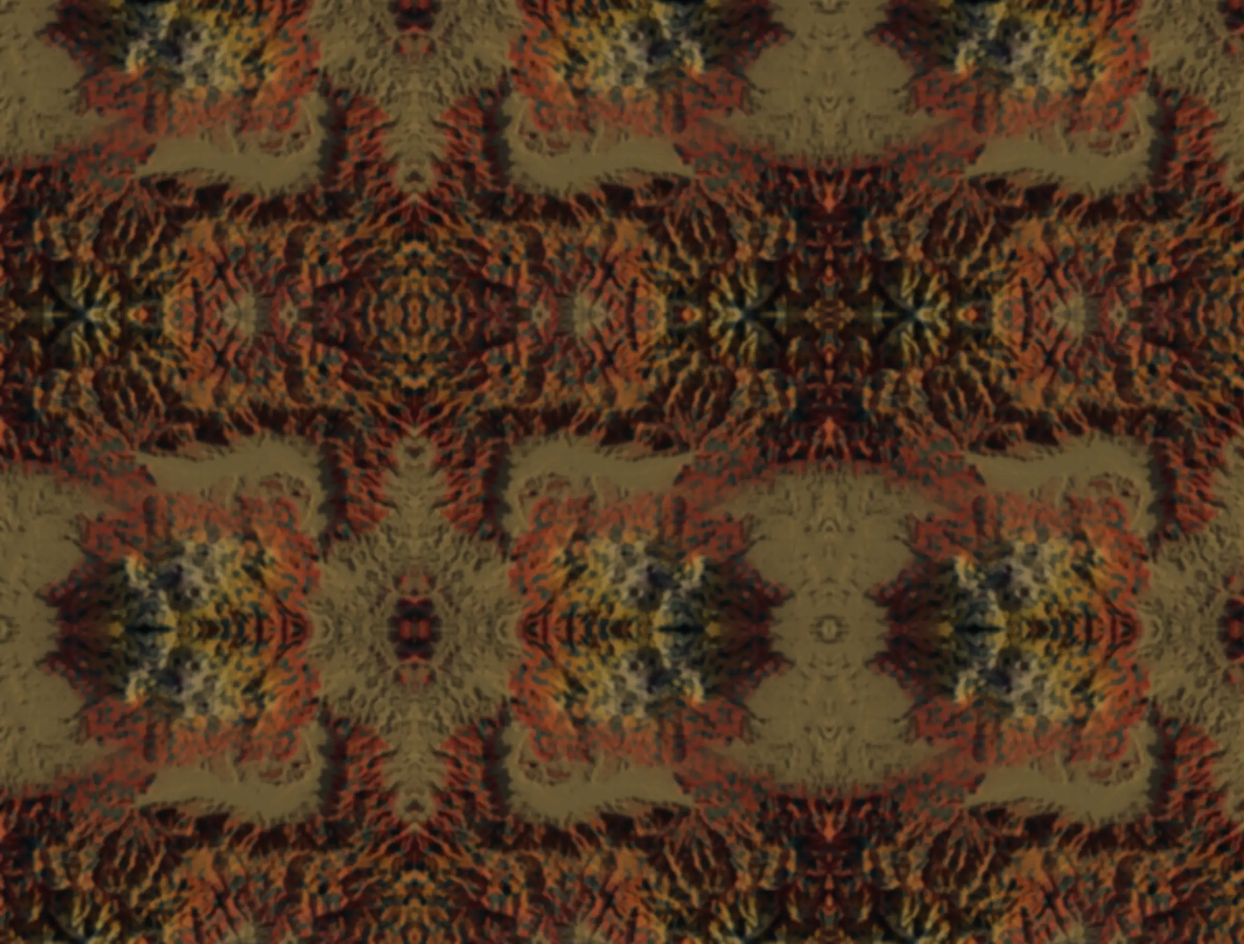
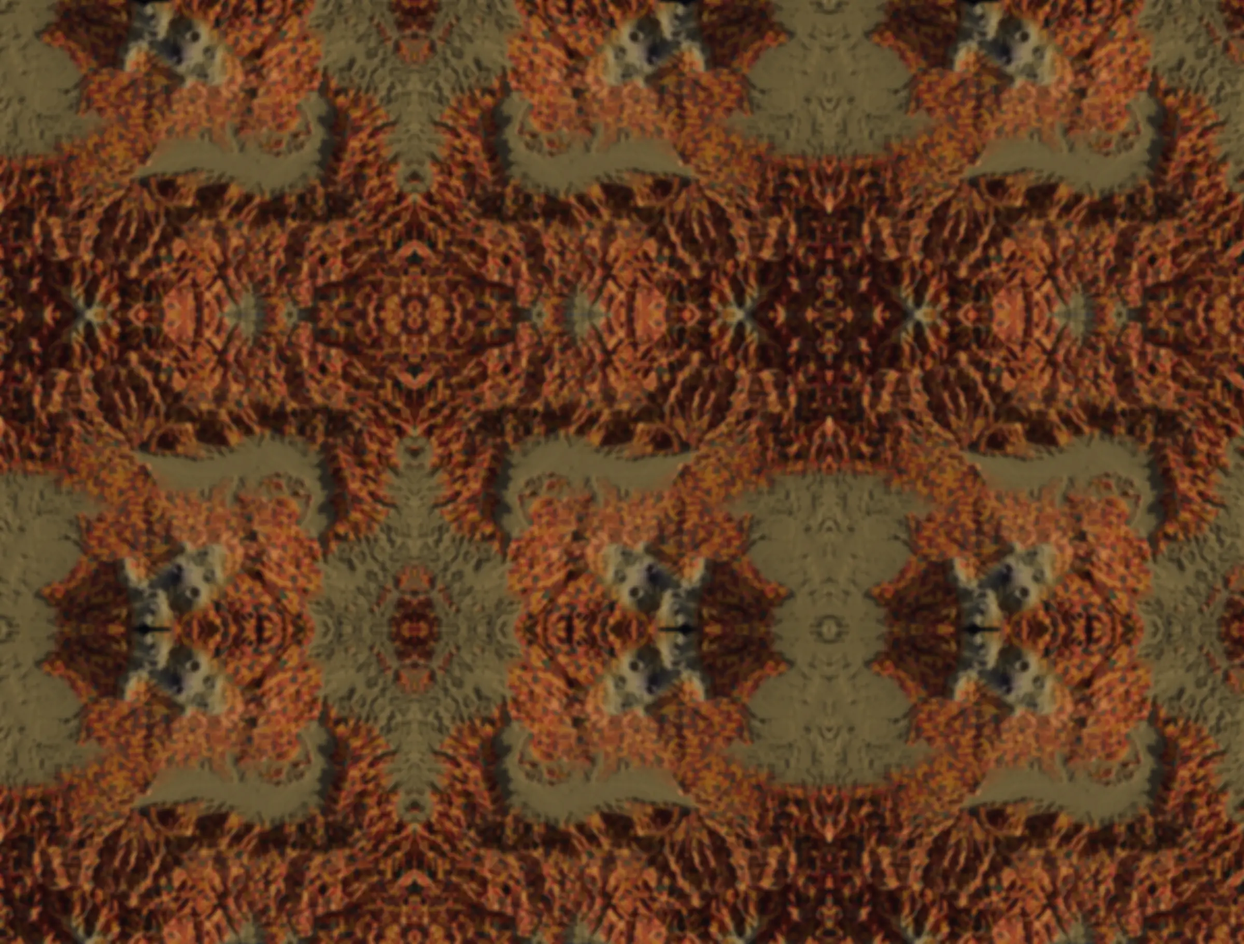
秋を紅葉とわかる絵にする（先生 11/6）：木の冠のつぶを赤・紅・橙・金・常緑でまだらに
高さだけのなめらかな塗りは、さびた岩肌に見えていた。真上から見た紅葉は、
木の一つ一つが色ちがいのつぶになって並ぶ。秋だけ、斜面に約110mのつぶを散らし、
一つずつ小さく盛り上げる。斜面ごとに赤寄り・金寄り・緑寄りのむらを付け、
画面の大きさでも色が混ざって橙一色にならないようにした。杉の大きなしみは減らし、
夕日は少し白寄りにした。季節の絵の容量の上限は 450KB・240KB に上げた
（このPCの中だけで開くので重さは問題にならない）。

diff --git a/tools/render_relief.py b/tools/render_relief.py
@@ -118,11 +118,18 @@ LOOKS = {
         "ramp": [(0.0, (0.36, 0.26, 0.07)), (0.085, (0.32, 0.23, 0.06)), (0.12, (0.42, 0.05, 0.015)),
                  (0.30, (0.46, 0.10, 0.015)), (0.44, (0.50, 0.20, 0.02)), (0.58, (0.50, 0.34, 0.04)),
                  (0.70, (0.42, 0.32, 0.11)), (0.86, (0.19, 0.13, 0.09)), (1.0, (0.15, 0.11, 0.09))],
-        "forest": ((0.035, 0.07, 0.03), 0.0),
-        "patches": (0.43, 0.50),
+        "forest": ((0.03, 0.075, 0.025), 0.0),
+        "patches": (0.33, 0.37),
+        # The crowns: about 3 units (110 m, a clump of trees) across, a
+        # few pixels in the picture; each cell one colour (where, colour),
+        # the slopes leaning to one end or the other by a wider noise.
+        "canopy": {"scale": 0.3, "bump": 0.45, "lean": (0.06, 2.4), "spread": 0.35,
+                   "colours": [(0.0, (0.04, 0.11, 0.025)), (0.24, (0.42, 0.012, 0.012)),
+                               (0.40, (0.62, 0.035, 0.012)), (0.54, (0.72, 0.17, 0.01)),
+                               (0.68, (0.82, 0.40, 0.02)), (0.86, (0.70, 0.26, 0.015))]},
         "basin": ((0.36, 0.26, 0.07), 0.15),
         "side": (0.022, 0.016, 0.012),
-        "lights": (("sun", 3.0, (1.0, 0.86, 0.72), (70, 0, -112)), ("rim", 0.5, (0.6, 0.68, 1.0), (70, 0, 135))),
+        "lights": (("sun", 3.0, (1.0, 0.93, 0.84), (70, 0, -112)), ("rim", 0.5, (0.6, 0.68, 1.0), (70, 0, 135))),
         "sky": ((0.08, 0.09, 0.14), 0.5),
     },
 }
@@ -155,6 +162,73 @@ def night_material(season="night"):
         stops.new(at).color = (*colour, 1)
     nt.links.new(by_height.outputs["Result"], ramp.inputs["Fac"])
     leaves = ramp.outputs["Color"]
+    if "canopy" in look:
+        # The trees' crowns on the wooded slopes (above the fields, below
+        # the plateau's grass): a cell each, its colour drawn from the
+        # cell's own random value, a little dome lit by the sun.
+        canopy = look["canopy"]
+        cells = nt.nodes.new("ShaderNodeTexVoronoi")
+        cells.inputs["Scale"].default_value = canopy["scale"]
+        nt.links.new(geometry.outputs["Position"], cells.inputs["Vector"])
+        random = nt.nodes.new("ShaderNodeSeparateXYZ")
+        nt.links.new(cells.outputs["Color"], random.inputs[0])
+        crowns = nt.nodes.new("ShaderNodeValToRGB")
+        crowns.color_ramp.interpolation = "CONSTANT"
+        stops = crowns.color_ramp.elements
+        first, *rest = canopy["colours"]
+        stops[0].position, stops[0].color = first[0], (*first[1], 1)
+        stops[1].position, stops[1].color = rest[-1][0], (*rest[-1][1], 1)
+        for at, colour in rest[:-1]:
+            stops.new(at).color = (*colour, 1)
+        # value = 0.5 + (random - 0.5) * spread + (slope's lean - 0.5) * strength
+        lean_scale, lean = canopy["lean"]
+        spread = canopy["spread"]
+        slope_lean = nt.nodes.new("ShaderNodeTexNoise")
+        slope_lean.inputs["Scale"].default_value = lean_scale
+        slope_lean.inputs["Detail"].default_value = 2.0
+        nt.links.new(geometry.outputs["Position"], slope_lean.inputs["Vector"])
+        own = nt.nodes.new("ShaderNodeMath")
+        own.operation = "MULTIPLY_ADD"
+        own.inputs[1].default_value = spread
+        own.inputs[2].default_value = 0.5 - 0.5 * spread - 0.5 * lean
+        nt.links.new(random.outputs["X"], own.inputs[0])
+        pick = nt.nodes.new("ShaderNodeMath")
+        pick.operation = "MULTIPLY_ADD"
+        pick.use_clamp = True
+        pick.inputs[1].default_value = lean
+        nt.links.new(slope_lean.outputs["Fac"], pick.inputs[0])
+        nt.links.new(own.outputs[0], pick.inputs[2])
+        nt.links.new(pick.outputs[0], crowns.inputs["Fac"])
+        wood_from = nt.nodes.new("ShaderNodeMapRange")
+        wood_from.inputs["From Min"].default_value = 0.085
+        wood_from.inputs["From Max"].default_value = 0.11
+        nt.links.new(by_height.outputs["Result"], wood_from.inputs["Value"])
+        wood_to = nt.nodes.new("ShaderNodeMapRange")
+        wood_to.inputs["From Min"].default_value = 0.56
+        wood_to.inputs["From Max"].default_value = 0.66
+        wood_to.inputs["To Min"].default_value = 1.0
+        wood_to.inputs["To Max"].default_value = 0.0
+        nt.links.new(by_height.outputs["Result"], wood_to.inputs["Value"])
+        wood = nt.nodes.new("ShaderNodeMath")
+        wood.operation = "MULTIPLY"
+        nt.links.new(wood_from.outputs["Result"], wood.inputs[0])
+        nt.links.new(wood_to.outputs["Result"], wood.inputs[1])
+        wooded_slope = nt.nodes.new("ShaderNodeMix")
+        wooded_slope.data_type = "RGBA"
+        nt.links.new(leaves, socket(wooded_slope.inputs, "A_Color"))
+        nt.links.new(crowns.outputs["Color"], socket(wooded_slope.inputs, "B_Color"))
+        nt.links.new(wood.outputs[0], socket(wooded_slope.inputs, "Factor_Float"))
+        leaves = socket(wooded_slope.outputs, "Result_Color")
+        dome = nt.nodes.new("ShaderNodeBump")
+        dome.invert = True
+        dome.inputs["Distance"].default_value = 1.0
+        nt.links.new(cells.outputs["Distance"], dome.inputs["Height"])
+        dome_strength = nt.nodes.new("ShaderNodeMath")
+        dome_strength.operation = "MULTIPLY"
+        dome_strength.inputs[1].default_value = canopy["bump"]
+        nt.links.new(wood.outputs[0], dome_strength.inputs[0])
+        nt.links.new(dome_strength.outputs[0], dome.inputs["Strength"])
+        nt.links.new(dome.outputs["Normal"], bsdf.inputs["Normal"])
     if "forest" in look:
         # The cedars: dark green in patches over the leaves' colour, as a
         # wooded slope is (a noise over the model's place, a few hundred

diff --git a/tests/test_relief_seasons.py b/tests/test_relief_seasons.py
@@ -45,8 +45,11 @@ def test_the_repo_has_spring_and_autumn_after_the_night():
     assert data["looks"][0] == {"id": "night", "image": "/relief.webp", "blur": "/relief_blur.webp"}
     for season in relief.SEASONS:
         image, blur = relief.season_files(season)
-        assert (relief.RELIEF_DIR / image).stat().st_size < 400_000
-        assert (relief.RELIEF_DIR / blur).stat().st_size < 200 * 1024  # More colour than the night's.
+        # Autumn's crowns of trees (a grain of colours, the teacher's 11/6)
+        # cost more than the night's smooth wash; still small for a page
+        # served on this computer only.
+        assert (relief.RELIEF_DIR / image).stat().st_size < 450_000
+        assert (relief.RELIEF_DIR / blur).stat().st_size < 240 * 1024  # More colour than the night's.
 
 
 def test_a_season_missing_a_file_or_of_another_size_is_left_out(tmp_path):
